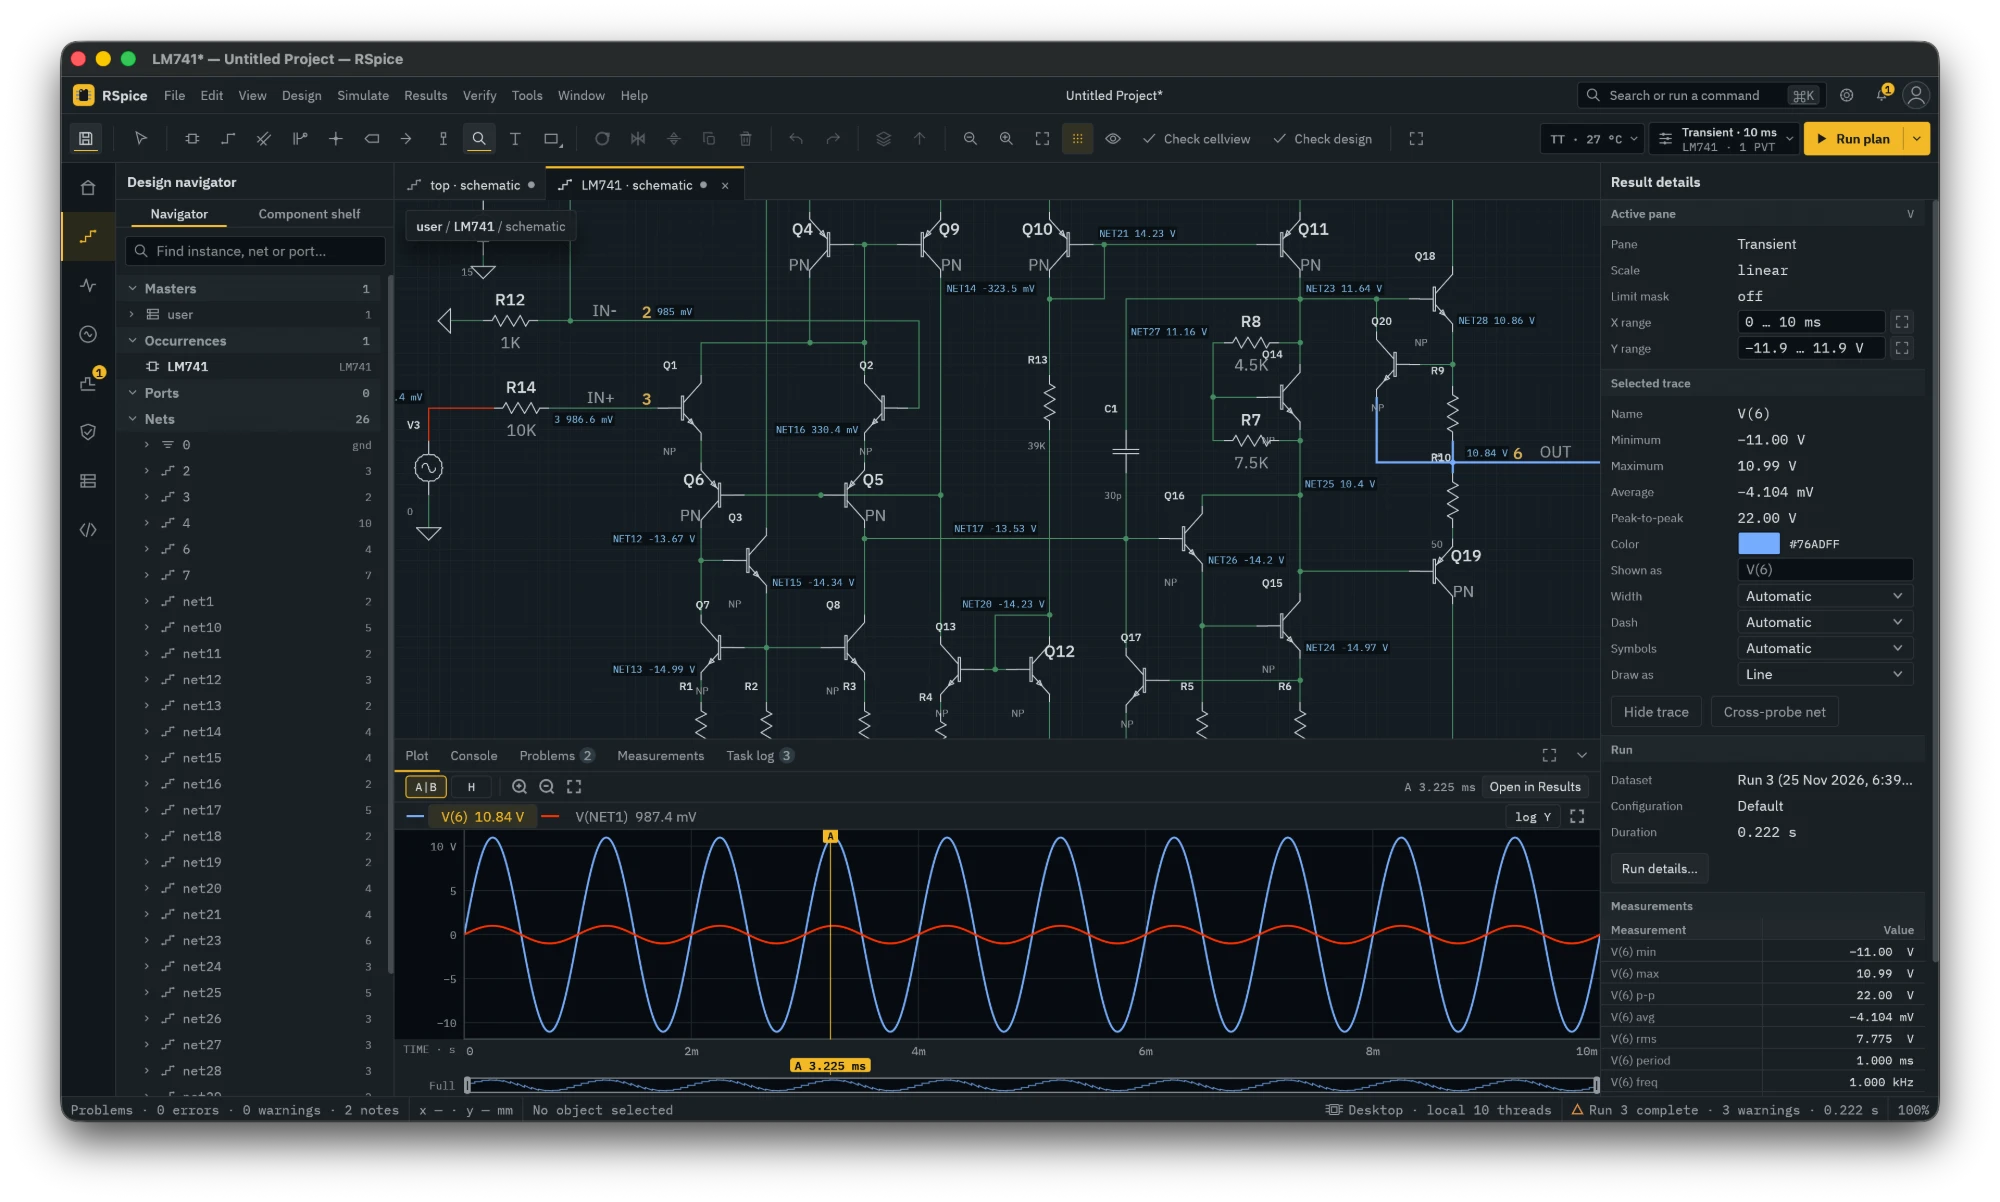
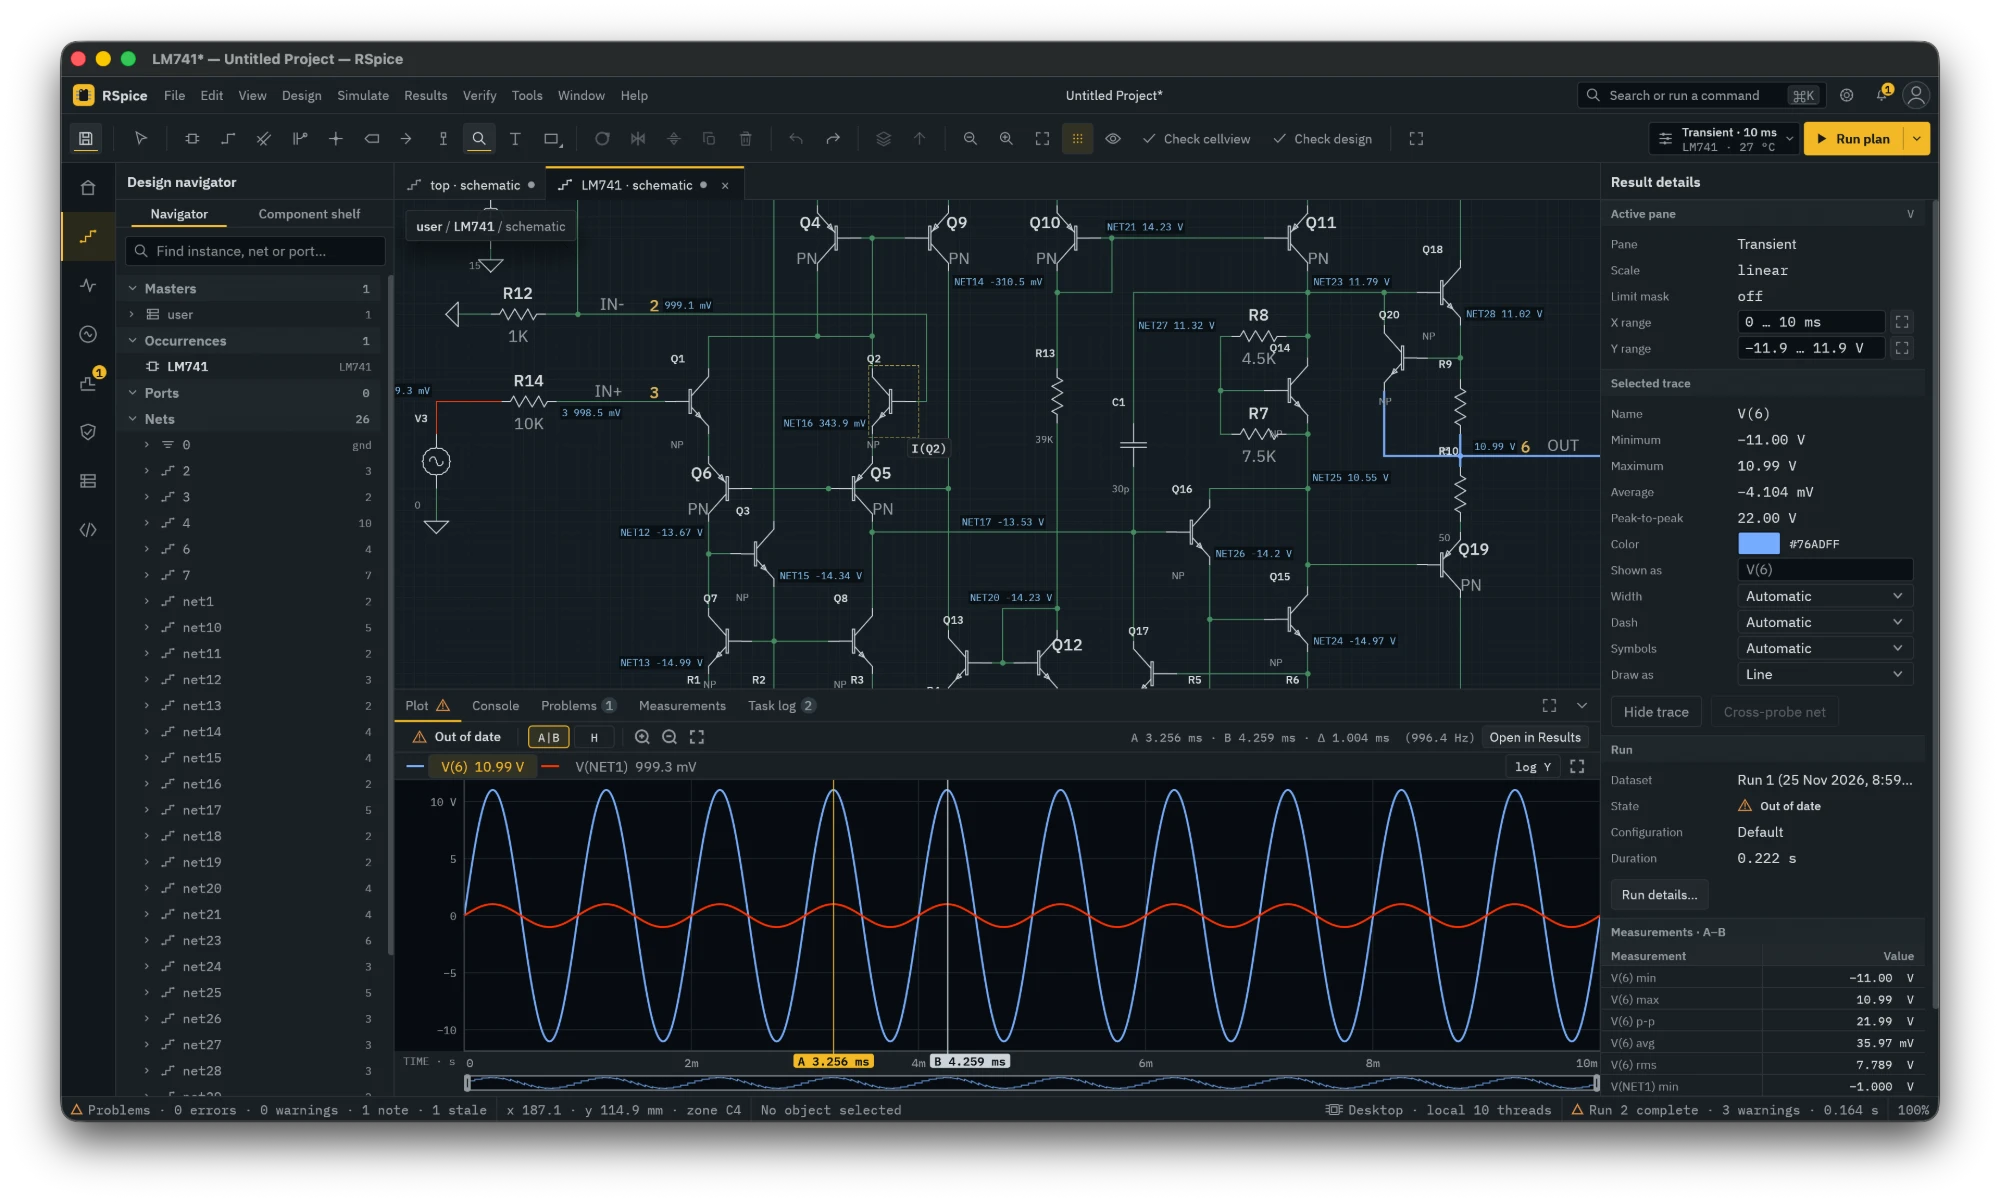
docs(readme): the schematic picture shows cursors A and B one period apart

diff --git a/README.md b/README.md
@@ -18,7 +18,7 @@ noise.
 [Dialect](#netlist-dialect) · [Interfaces](#interfaces) ·
 [Validation](#validation) · [Repository](#repository)
 
-<img src="assets/screenshots/schematic-cross-probe.webp" alt="The schematic editor with the LM741 example: the probed input and output nets take their trace colours, and the Plot dock below shows the op-amp's input and amplified output" width="100%" />
+<img src="assets/screenshots/schematic-cross-probe.webp" alt="The schematic editor with the LM741 example: the probed input and output nets take their trace colours, and the Plot dock below shows the op-amp's input and amplified output with cursors A and B one period apart" width="100%" />
 
 <img src="assets/screenshots/results-mixed-signal.png" alt="The Results workspace on an 8-bit SAR ADC built from a Verilog register and testbench, a Verilog-A comparator and a SPICE capacitor DAC: clock, sample, comparator and end-of-conversion logic lanes, the output code as a hex bus, the sine input against the DAC's reconstructed staircase, and cursors A and B spanning one conversion" width="100%" />
 
